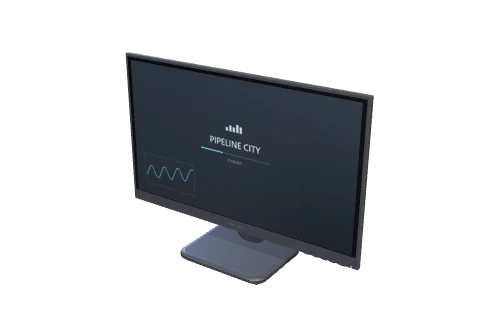
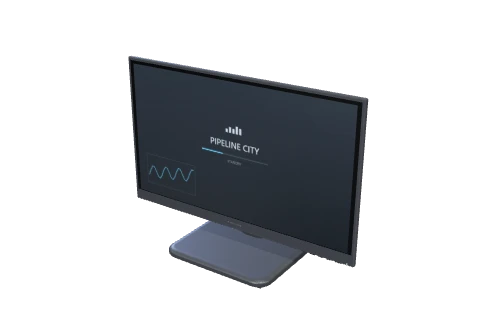
Shop tiles: show each CPU's die, and the monitor at its new scale
A still opens the part (the lid's reveal done), so the 16 CPU tiles
each show their own floorplan.

diff --git a/src/features/board/render/three/artset3d.ts b/src/features/board/render/three/artset3d.ts
@@ -59,18 +59,22 @@ export class ArtSet {
   /** On its own (`frame`): run `apply` every frame with the zoom seen at `at` (screen pixels per unit), as the machine's reveals do (a lid fades). */
   reveal(at: Object3D, apply: (zoom: number) => void): void { this.reveals.push({ at, apply }); }
 
+  /** Show the part as from up close from now on, whatever the zoom: its reveals done (a CPU's lid gone, its die's floorplan showing). */
+  private opened = false;
+  readonly open = (): void => { this.opened = true; };
+
   /** Each face asks for the tiles the camera needs (`H`: the view's height in device pixels). */
   update(cam: PerspectiveCamera, frustum: Frustum, H: number, dpr: number, now: number): void {
     for (const s of this.surfaces) s.update(cam, frustum, H, dpr, now);
   }
 
   /** Hand the set to the viewer on the part's root. */
-  attach(o: Object3D): void { o.userData.frame = this.frame; o.userData.dispose = this.dispose; }
+  attach(o: Object3D): void { o.userData.frame = this.frame; o.userData.dispose = this.dispose; o.userData.open = this.open; }
 
   /** Per frame, on its own: the reveals, then the faces' tiles; the queue bakes a few. */
   readonly frame = (cam: PerspectiveCamera, H: number): void => {
     const now = performance.now();
-    for (const r of this.reveals) r.apply(screenPx(cam.position.distanceTo(r.at.getWorldPosition(AT)), cam.fov, H));
+    for (const r of this.reveals) r.apply(this.opened ? Infinity : screenPx(cam.position.distanceTo(r.at.getWorldPosition(AT)), cam.fov, H));
     frustumOf(cam, this.frustum);
     this.update(cam, this.frustum, H, 1, now);
     this.q.run(8);

diff --git a/src/core/render/three/viewer.ts b/src/core/render/three/viewer.ts
@@ -17,8 +17,11 @@ export interface Viewer {
   dispose: () => void;
 }
 
-/** What a node of the part may carry in its userData: work before each render (`H`: the view's height in device pixels), and its own disposal. */
-export interface PartHooks { frame?: (cam: PerspectiveCamera, H: number) => void; dispose?: () => void }
+/**
+ * What a node of the part may carry in its userData: work before each render (`H`: the view's height in device pixels), its own disposal,
+ * and `open`: show the part as from up close (a CPU's die under its lid). A shop tile's still opens it, so each part's tile tells it apart.
+ */
+export interface PartHooks { frame?: (cam: PerspectiveCamera, H: number) => void; dispose?: () => void; open?: () => void }
 
 /** The turn and zoom limits: all the way round, from just under the floor to straight above; in close enough to read a chip's marking. */
 export const VIEW_LIMITS = { pitchMin: -0.1, pitchMax: 1.5, zoomMin: 0.06, zoomMax: 2.5 };
@@ -110,6 +113,7 @@ export async function renderStill(o: Object3D, w: number, h: number): Promise<HT
   floor.visible = false;
   const hooks: PartHooks[] = [];
   o.traverse((n) => { n.castShadow = true; if (n.userData.frame || n.userData.dispose) hooks.push(n.userData as PartHooks); });
+  for (const k of hooks) k.open?.();
   scene.add(o);
   const b = new Box3().setFromObject(o), size = b.getSize(new Vector3()), centre = b.getCenter(new Vector3());
   place(size, centre);
